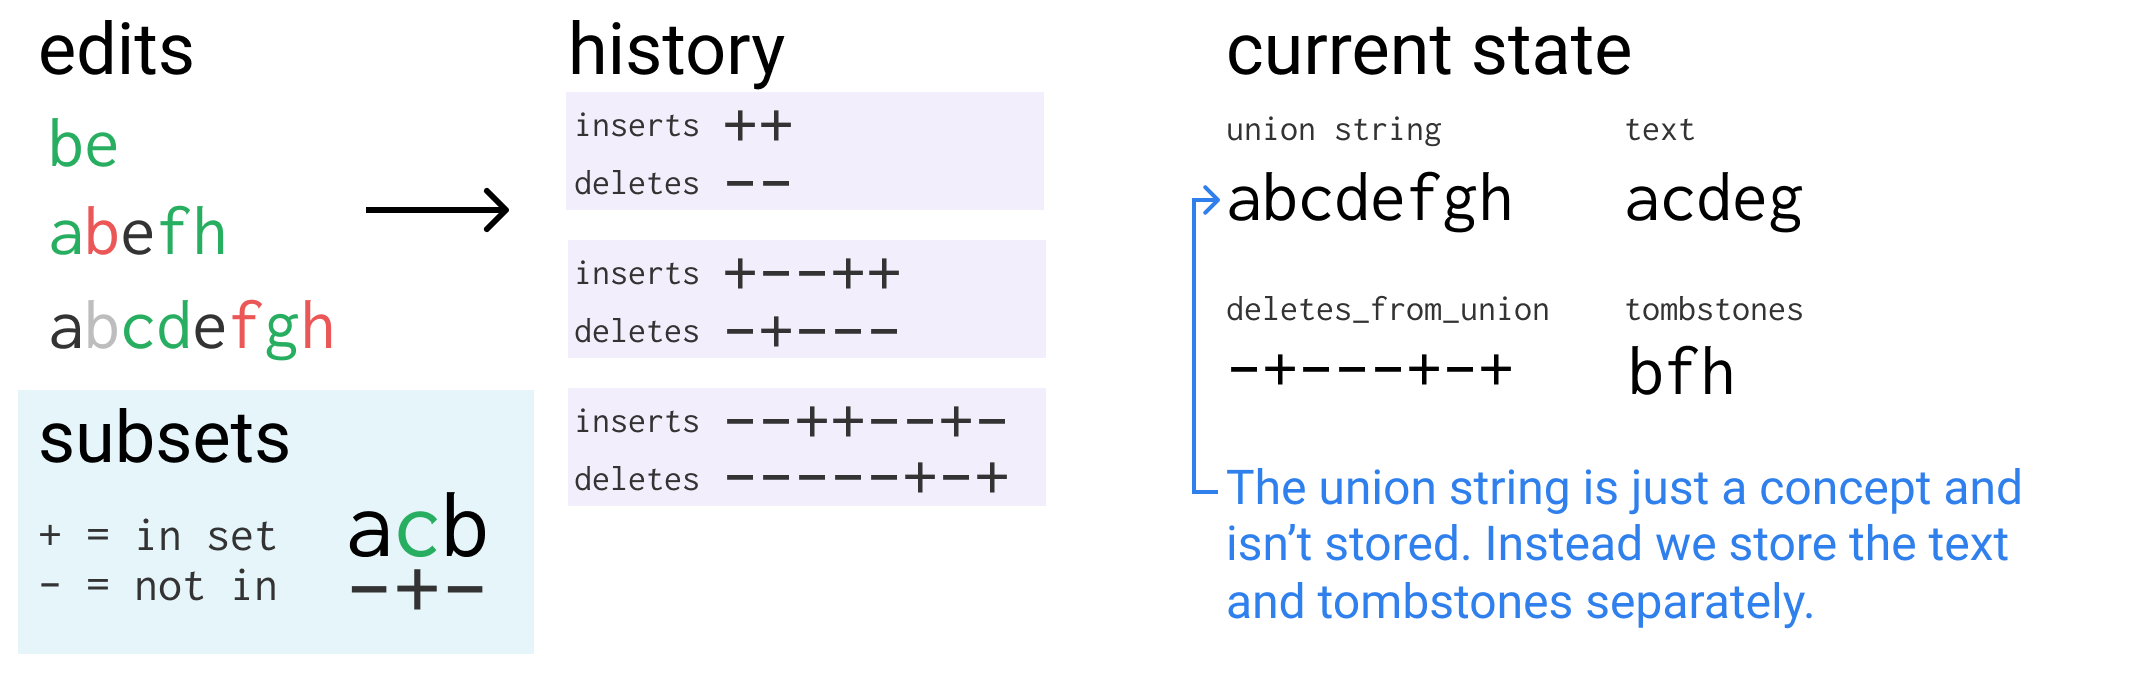
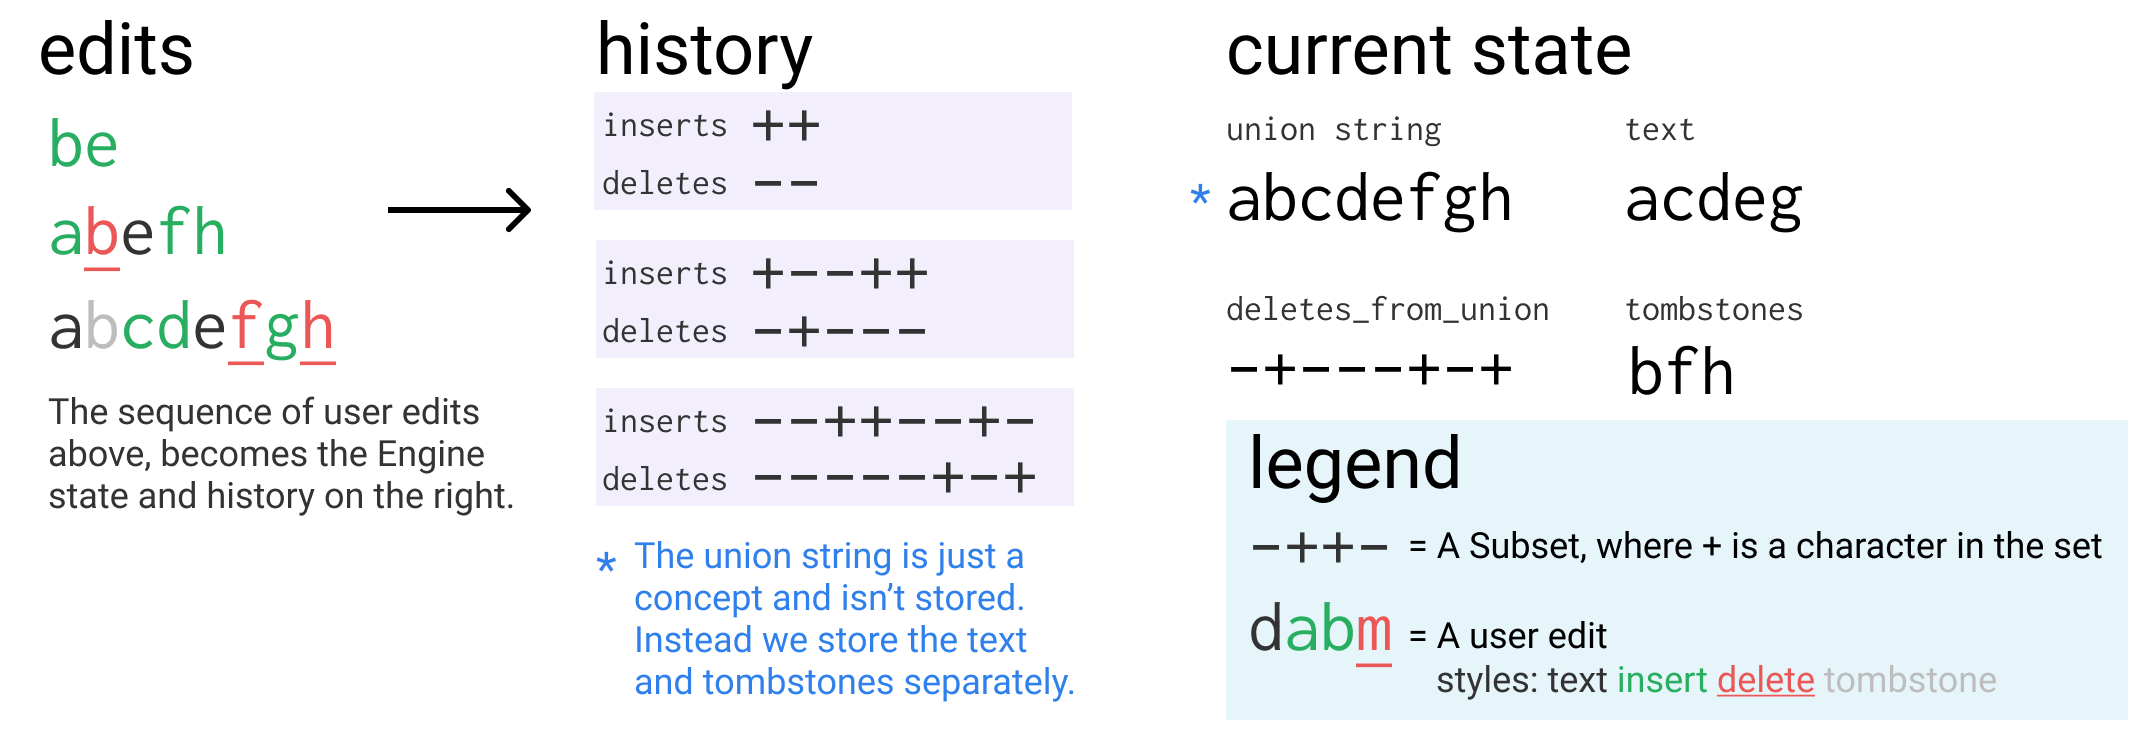
A bunch of editing thanks to @cmyr

diff --git a/rust/rope/src/engine.rs b/rust/rope/src/engine.rs
@@ -91,7 +91,7 @@ pub struct RevId {
 #[derive(Serialize, Deserialize, Debug)]
 struct Revision {
     /// This uniquely represents the identity of this revision and it stays
-    /// the same even it is rebased or merged between devices.
+    /// the same even if it is rebased or merged between devices.
     rev_id: RevId,
     /// The largest undo group number of any edit in the history up to this
     /// point. Used to optimize undo to not look further back.
@@ -100,7 +100,7 @@ struct Revision {
 }
 
 /// Valid within a session. If there's a collision the most recent matching
-/// commit will be used, which means only the (small) set of concurrent edits
+/// Revision will be used, which means only the (small) set of concurrent edits
 /// could trigger incorrect behavior if they collide, so u64 is safe.
 pub type RevToken = u64;
 

diff --git a/doc/crdt-details.md b/doc/crdt-details.md
@@ -2,7 +2,13 @@
 
 <!-- See https://www.figma.com/file/UGOAcpKR5WIP81t3DGPIP2dR/CRDT-Merge-Diagrams for the source of the diagrams -->
 
-This document contains a detailed description of Xi's text Conflict-free Replicated Data Type (CRDT) as implemented in the `xi-rope` crate. It describes the actual Rust data structures and algorithms used, because the primary novelty and difficulty of this CRDT is in the optimized representation that allows for better time and memory complexity. If you want an overview of the motivation behind using a CRDT and a conceptual description of what the CRDT does see [`crdt.md`](crdt.md).
+This document contains a detailed description of the data structures and operations Xi uses for text. These data structures and the `merge` operation also form a Conflict-free Replicated Data Type (CRDT). It being a CRDT allows Xi to be used for concurrent editing of text on multiple devices, it can merge edits, including those made offline, between multiple devices and converge on a consistent document that includes all changes.
+
+Beyond synchronizing text, these data structures and operations allow Xi to handle asynchronous editing of the text from plugins, support undo and redo, and allow incremental updating of editor state and the view based on differences between revisions.
+
+Many of these data structures and operations have been in Xi for a while but they've recently been heavily overhauled and extended as part of [a project](https://github.com/google/xi-editor/issues/250) that added multi-device syncing support via the CRDT merge operation. This was done for [use on the Fuchsia operating system](https://fuchsia.googlesource.com/xi/), where it uses [Ledger](https://fuchsia.googlesource.com/ledger/) to synchronize documents between devices.
+
+What follows is both a description of a data structure for text and a code tour of the `xi-rope` crate. It describes the actual Rust data structures and algorithms used, because the primary novelty and difficulty of this CRDT is in the optimized representation that allows for better time and memory complexity. If you want an overview of the motivation behind using a CRDT and a conceptual description of what the CRDT does see [`crdt.md`](crdt.md). The intended audience is anyone interested in implementing CRDTs, anyone who wants to work on Xi, or just anyone curious enough.
 
 ## Table of Contents
 
@@ -23,7 +29,9 @@ As of the time this document was written, it satisfies all of these properties t
 
 ### Transform Property 2 (TP2) and Operational Transforms
 
-[Operational Transformation (OT)](https://en.wikipedia.org/wiki/Operational_transformation) is a common way to implement asynchronous text editing. It works by sending *operations* like inserts and deletes between peers and transforming them to apply to the current text. Unfortunately many implementations of OT have a problem where they don't always preserve ordering when text is deleted. For example see the following diagram showing 3 peers sending edits between each other ending up in an inconsistent state:
+[Operational Transformation (OT)](https://en.wikipedia.org/wiki/Operational_transformation) is a common way to implement asynchronous text editing. It works by sending *operations* like inserts and deletes between peers and transforming them to apply to the current text. Unfortunately many implementations of OT have a problem where they don't always preserve ordering when text is deleted.
+
+For example see the following diagram showing 3 peers sending edits between each other ending up in an inconsistent state. The arrows represent operations being sent asynchronously between devices in a peer-to-peer editing system based on OT, with time progressing downward. Whenever an edit is made the operation is sent to all other peers, but due to asynchronous communication they can be arbitrarily delayed. When an operation arrives at a peer it is transformed and applied to the current text. For clarity, not all arrows are shown, but you can imagine that the arrival of missing sends just got delayed past the end of the diagram.
 
 ![TP2 Problem](img/tp2.png)
 
@@ -34,7 +42,7 @@ Xi avoids this problem by using "tombstones" (see [Tombstone Transformation Func
 
 ## Representation
 
-The conceptual representation described in [`crdt.md`](crdt.md) would be very inefficient to use directly. If we had to store an ID and ordering edges for each character and reconstruct the current text via topological sort every time we wanted to know what the current text, Xi would be incredibly slow and use tons of memory.
+The conceptual representation described in [`crdt.md`](crdt.md) would be very inefficient to use directly. If we had to store an ID and ordering edges for each character and reconstruct the current text via topological sort every time we wanted to know what the current text is, Xi would be incredibly slow and would use much more memory than is necessary.
 
 Instead, we use a representation that allows all the operations we care about to be fast. We also take advantage of the typical patterns of text document usage to make the representation more memory efficient for common cases.
 
@@ -72,7 +80,9 @@ When representing potentially large amounts of text, Xi avoids using `String`s a
 - Inserting one piece of text in the middle of another producing a new piece of text
 - Deleting an interval from a piece of text, producing a new piece of text
 
-Behind the scenes, `Rope` is an immutable balanced tree structure using Rust's atomic reference counting smart pointer (`Arc`) to share data, so "copying" any sub-tree is a very fast `O(1)` operation. The leaves of the tree are chunks of text with a maximum size. For example, deleting an interval of a `Rope` only requires creating a few new nodes that reference the sub-tree to the right of the deleted interval and to the left, and creating up to two new leaves if the deleted interval doesn't lie on a chunk boundary.
+Behind the scenes, `Rope` is an immutable balanced tree structure using Rust's atomic reference counting smart pointer (`Arc`) to share data, so "copying" any sub-tree is a very fast `O(1)` operation. The leaves of the tree are chunks of text with a maximum size.
+
+An example of a `O(log n)` operation is deleting an interval of a `Rope`, which only requires creating a few new nodes that reference the sub-trees to the right and left of the deleted interval, and creating up to two new leaves if the deleted interval doesn't lie on chunk boundaries.
 
 Obviously `Rope`s will be slower and take more memory than small `Strings` but they have an asymptotic advantage when working with large documents.
 
@@ -93,11 +103,11 @@ pub struct Subset {
 }
 ```
 
-The `Subset` structure in `multiset.rs` represents a multi-subset of a string, meaning that every character in the string has a count (often `0`) representing how many times it is in the `Subset`. Most of the time this structure is used to represent plain-old subsets and the counts are only ever `0` for something not in the set or `1` for a character in the set.
+The `Subset` structure in `multiset.rs` represents a multi-subset of a string, meaning that every character in the string has a count (often `0`) representing how many times it is in the `Subset`. Most of the time this structure is used to represent plain-old subsets and the counts are only ever `0` for something not in the set or `1` for a character in the set. It is primarily used to efficiently represent inserted and deleted regions of a document.
 
 **Note:** The exact nature of the characters is not central to the CRDT algorithm. It's most convenient for indices to match the representation, so throughout this document "characters" are actually counting UTF-8 code units, so for example an emoji would be multiple "characters" in this sense.
 
-It stores this information compactly as a list of consecutive `Segment`s with a `length` and a `count`. This way a `Subset` representing 1000 consecutive characters in the middle of a string will only require 3 segments (a 0-count one at the start, a 1-count one in the middle, and another 0-count one at the end).
+It stores this information compactly as a list of consecutive `Segment`s with a `length` and a `count`. This way a `Subset` representing 1000 consecutive characters in the middle of a string will only require 3 segments (a 0-count one at the start, a 1-count one in the middle, and another 0-count one at the end). So as `(len, count)` tuples this would look like: `(n, 0), (1000, 1), (m, 0)`.
 
 The primary reason that `Subset`s can have counts greater than `1` is to represent concurrent deletes, for example if two concurrent edits delete the same character, and one of them is undone, subtracting one of the deletes from the `Subset` of deleted characters should still leave the character deleted once. For this reason, the `Subset`s of deleted characters which are described later have counts that represent how many times each character has been deleted.
 
@@ -121,26 +131,45 @@ pub struct Delta {
 pub struct InsertDelta(Delta);
 ```
 
-Delta represents the difference between one string (*A*) and another (*B*). It stores this as a list of intervals copied from the *A* string and new inserted sections. All the indices of the copied intervals are non-decreasing. So a deletion is represented as a section of the *A* string which isn't copied to the *B* string, and insertions are represented as inserted sections in between copied sections.
+A `Delta` represents the difference between one string (*A*) and another (*B*). It stores this as a list of intervals copied from the *A* string and new inserted sections. All the indices of the copied intervals are non-decreasing. So a deletion is represented as a section of the *A* string which isn't copied to the *B* string, and insertions are represented as inserted sections in between copied sections. `Delta` is the data structure the text editor interface creates when the user or a plugin edits the document, these are then applied to the document by the `Engine::edit_rev` operation described later.
 
 There is also a type `InsertDelta` that is just a wrapper around a `Delta` but represents a guarantee that the `Delta` only inserts, that is, the entire *A* string is copied by the `Copy` intervals.
 
-### The "union string"
+### Text, tombstones and the "union string"
 
-A super important part of being able to provide the properties we desire in our CRDT is that we never throw useful information away. This means that when you delete text in Xi, or undo an insert, the text doesn't actually get thrown away, just marked as deleted. You can think of this as if there is a "union string" that contains all the characters that have ever been inserted.
+A super important part of being able to provide the properties we desire in our CRDT is that we never throw useful information away. This means that when you delete text in Xi, or undo an insert, the text doesn't actually get thrown away, just marked as deleted. You can think of this as if there is a "union string" that contains all the characters that have ever been inserted, with some marked as deleted.
 
 When we delete or undo, we don't touch the union string, we just change a `Subset` (`deletes_from_union`, more on that later) which marks which characters of the union string are deleted. These deleted characters are sometimes called "tombstones" both within Xi and the academic CRDT literature.
 
-If we wanted to go from the "union string" to the current text of the document, you'd delete the characters marked in `deletes_from_union` from the union string. The problem is you want to get the current text really often, so this would be an inefficient way to actually store the text.
+If we wanted to go from the "union string" to the current text of the document, you'd delete the characters marked in `deletes_from_union` from the union string. The problem is, Xi access the current text **very often**, so this would be an inefficient way to actually store the text for large documents.
 
-Thus, the "union string" isn't really a structure in Xi, although it used to be, it's just a concept that could theoretically be created from the information we do have. However, the union string is still used for most indices as a coordinate space for `Subset`s. You'll see later how we actually store the current text, but you'll notice that most associated data still has its indices based on the union string.
+Instead, the "union string" isn't really stored in Xi, we store it as two separate parts called the `text` and `tombstones`. The `text` stores the current visible document contents, so it is really fast to access, and `tombstones` stores all the characters that are currently in the `deletes_from_union` set. We still store the `deletes_from_union` set to mark deleted characters. Note that the union string is still used for most indices as a coordinate space for `Subset`s like `deletes_from_union`.
+
+Here's an example of what this looks like:
+
+```
+union string:       abcdefgh
+deletes_from_union: -+---+-+
+text:               acdeg
+tombstones:         bfh
+```
+
+We can now also look at `deletes_from_union` as describing the interleaving of characters from `text` and `tombstones`:
+
+```
+text:               a cde g
+deletes_from_union: -+---+-+
+tombstones:          b   f h
+```
+
+The union string is still an important and useful concept because it makes a lot of the operations easier to implement and understand. Almost all explanations will be in terms of the union string, if you want you can largely ignore that fact that it's actually stored as two separate parts. Most operations are done in terms of the union string and then at the very end they shuffle some things around between the current `text` and `tombstones`.
 
 ### Revision
 
 ```rust
 struct Revision {
     /// This uniquely represents the identity of this revision and it stays
-    /// the same even it is rebased or merged between devices.
+    /// the same even if it is rebased or merged between devices.
     rev_id: RevId,
     /// The largest undo group number of any edit in the history up to this
     /// point. Used to optimize undo to not look further back.
@@ -179,9 +208,9 @@ enum Contents {
 
 They can also represent more complex things like selecting multiple ranges of text using multiple cursors (which Xi supports) and then pasting. This would result in a `Contents::Edit` with an `inserts` subset containing multiple separate segments of pasted characters, and a `deletes` subset containing the multiple ranges of previous text that were replaced.
 
-Note that the `inserts` and `deletes` `Subset`s are based on the union string described above, this allows insertions and deletions to maintain their position easily in the face of concurrency and undo. For example, say I have the text "ac" and I change it to "abc", but then undo the first edit leaving "b". If I re-do the first edit, Xi needs to know that the "b" goes between the two deleted characters. You might be able to think of ways to do this with other coordinates, but it's much easier and less fraught when coordinates only change on insertions instead of insertions, deletions and undo.
+Note that the `inserts` and `deletes` `Subset`s are based on the union string from after the `Revision` is applied. The fact that the union string includes deleted characters allows insertions and deletions to maintain their position easily in the face of concurrency and undo. For example, say I have the text "ac" and I change it to "abc", but then undo the first edit leaving "b". If I re-do the first edit, Xi needs to know that the "b" goes between the two deleted characters. You might be able to think of ways to do this with other coordinates, but it's much easier and less fraught when coordinates only change on insertions instead of insertions, deletions and undo.
 
-A key property of `Revision`s is that they contain all the necessary information to apply them as well as reverse them. This is important both for undo and also for some operations we'll get to later. This is why `Contents::undo` stores the set of toggled groups rather than the new set of undone groups. It's also as why it stores a reversible set of changes to the deleted characters (more on those later), this could be found by replaying all of history using the new set of undo groups, but then it would be inefficient to apply and reverse (because it would be proportional to the length of history).
+A key property of `Revision`s is that they contain all the necessary information to apply them as well as reverse them. This is important both for undo and also for some operations we'll get to later. This is why `Contents::undo` stores the set of toggled groups rather than the new set of undone groups. It's also why it stores a reversible set of changes to the deleted characters (more on those later), this could be found by replaying all of history using the new set of undo groups, but then it would be inefficient to apply and reverse (because it would be proportional to the length of history).
 
 ### RevId & RevToken
 
@@ -199,7 +228,7 @@ pub struct RevId {
 }
 
 /// Valid within a session. If there's a collision the most recent matching
-/// commit will be used, which means only the (small) set of concurrent edits
+/// Revision will be used, which means only the (small) set of concurrent edits
 /// could trigger incorrect behavior if they collide, so u64 is safe.
 pub type RevToken = u64;
 ```
@@ -249,7 +278,7 @@ pub type SessionId = (u64, u32);
 
 `Engine` is the top-level container of text state for the CRDT. It stores the current state of the document and all the `Revision`s that lead up to it. This allows operations that require knowledge of history to apply `Revision`s in reverse from the current state to find the state at a point in the past, without having to store the state at every point in history. Be sure to read the code in this case, all the fields are described by doc comments.
 
-**SUPER IMPORTANT INSIGHT:** Because the union string preserves the textual ordering of inserted characters, indices in the union string only depend on the set of inserted characters and not what order they were added in the history. This means that the correct representation of a `Revision` for a given edit depends only on the *set* of `Revision`s before it in the history and not their order.
+**SUPER IMPORTANT INSIGHT:** Because the union string preserves the textual ordering of inserted characters, indices in the union string only depend on the set of inserted characters and not what order they were added in the history. This means that the correct representation of a `Revision` for a given edit *doesn't depend on the order* of `Revision`s before it in the history, only what *set* of `Revision`s is before it.
 
 ### Example History
 
@@ -303,7 +332,8 @@ Takes two `Subset`s and produces a new `Subset` of the same string where each ch
 
 `Subset::transform_expand` takes a `Subset` and another "transform" `Subset` and transforms the first `Subset` through the coordinate transform represented by the "transform". Now what does this mean:
 
-`Revision`s are never modified even when the union string expands with newly inserted characters. We can deal with this by treating `Subset`s of inserted characters as coordinate transforms. The only difference to the union string is the inserted characters, so if we can modify the coordinates of a `Subset` from being based on one union string to another, we can work with edits from multiple `Revision`s together.
+
+`Revision`s are never modified, and their `Edit`s always refer to the union string that existed when they were created. For operations on multiple `Revision`s, have to be able to map coordinates in one's union string to coordinates in another's. We can deal with this by treating `Subset`s of inserted characters as coordinate transforms. The only difference to the union string is the inserted characters, so if we can modify the coordinates of a `Subset` from being based on one union string to another, we can work with edits from multiple `Revision`s together.
 
 We can do this by "expanding" the indices in a `Subset` after each insert by the size of that insert, where the inserted characters are the "transform". Conceptually if a `Subset` represents the set of characters in a string that were inserted by an edit, then it can be used as a transform from the coordinate space before that edit to after that edit by mapping a `Subset` of the string before the insertion onto the 0-count regions of the transform `Subset`.
 
@@ -425,11 +455,11 @@ fn rev_content_for_index(&self, rev_index: usize) -> Rope {
 
 #### Engine::deletes_from_cur_union_for_index
 
-If you look back at the [example history scenario](#example-history), you'll see `back_computed_deletions_from_6_union`, which shows that for any past `Revision` we can find a set of deletions from the current union string that result in the past text. This helper is what computes deletion sets like `back_computed_deletions_from_6_union`.
+If you look back at the [example history scenario](#example-history), you'll see `back_computed_deletions_from_6_union`, which shows that for any past `Revision` we can find a set of deletions from the current union string that result in the past text. This helper is what computes deletion sets like [`back_computed_deletions_from_6_union`](#example-history).
 
 We can find an `old_deletes_from_cur_union` by taking our current `deletes_from_union` and walking backwards through our list of `Revision`s undoing the changes they have made since the old revision.
 
-There's a problem with this though, the `inserts` and `deletes` subsets use indices in the coordinate space of the union string at the time the `Revision` was created, which may be smaller than our current union string.
+There's a problem with this though, the `inserts` and `deletes` subsets for a `Revision` use indices in the coordinate space of the union string at the time the `Revision` was created, which may be smaller than our current union string.
 
 We could keep track of the transform and account for it, but it's easier to use a helper we need anyway elsewhere that computes what the `deletes_from_union` actually would have been at that previous point in time, that is, relative to the old union string not the current one like we want. This helper is called `Engine::deletes_from_union_for_index` and it performs the work of un-deleting and un-undoing everything after the old revision.
 
